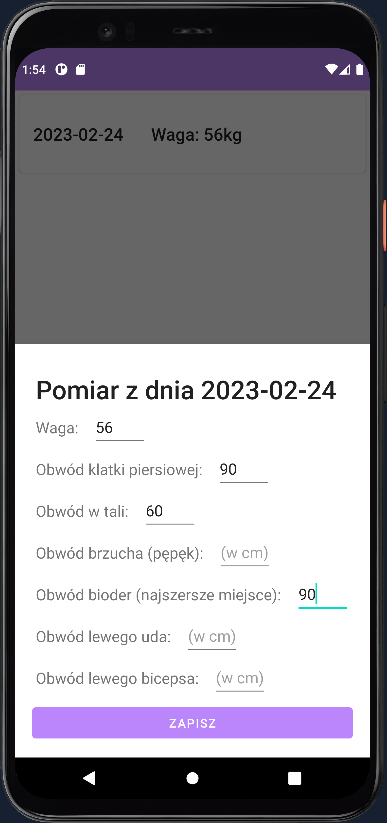
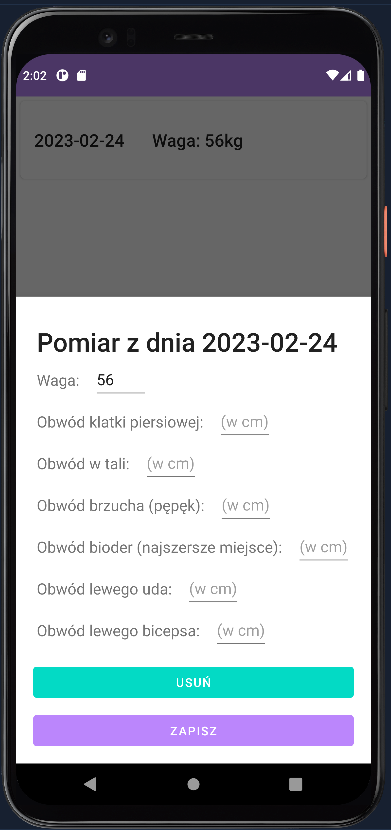
added delete item option

diff --git a/app/src/main/java/com/example/weighttracker/NewMeasurementFragment.kt b/app/src/main/java/com/example/weighttracker/NewMeasurementFragment.kt
@@ -22,6 +22,7 @@ class NewMeasurementFragment(var weightItem: WeightItem?) : BottomSheetDialogFra
 
         if (weightItem != null) {
             binding.title.text = "Pomiar z dnia " + weightItem!!.dateString
+
             val editable = Editable.Factory.getInstance()
             with(binding) {
                 weight.text = editable.newEditable(weightItem!!.weight.toString())
@@ -32,8 +33,16 @@ class NewMeasurementFragment(var weightItem: WeightItem?) : BottomSheetDialogFra
                 thigh.text = editable.newEditable(weightItem!!.thigh.toString())
                 arm.text = editable.newEditable(weightItem!!.arm.toString())
             }
+
+            with (binding.delete) {
+                visibility  = View.VISIBLE
+                setOnClickListener {
+                    deleteAction()
+                }
+            }
         } else {
             binding.title.text = "Nowy pomiar"
+            binding.delete.visibility  = View.GONE
         }
 
         weightViewModel = ViewModelProvider(activity).get(WeightViewModel::class.java)
@@ -71,6 +80,7 @@ class NewMeasurementFragment(var weightItem: WeightItem?) : BottomSheetDialogFra
                 thigh,
                 arm
             )
+
             weightViewModel.addWeightItem(newWeight)
         } else {
             weightItem!!.dateString = date
@@ -81,7 +91,21 @@ class NewMeasurementFragment(var weightItem: WeightItem?) : BottomSheetDialogFra
             weightItem!!.hips = hips
             weightItem!!.thigh = thigh
             weightItem!!.arm = arm
+
+            weightViewModel.updateWeightItem(weightItem!!)
         }
+
+        clear()
+        dismiss()
+    }
+
+    private fun deleteAction() {
+        weightViewModel.deleteWeightItem(weightItem!!)
+        clear()
+        dismiss()
+    }
+
+    private fun clear() {
         binding.weight.setText("")
         binding.weist.setText("")
         binding.chest.setText("")
@@ -89,7 +113,5 @@ class NewMeasurementFragment(var weightItem: WeightItem?) : BottomSheetDialogFra
         binding.hips.setText("")
         binding.thigh.setText("")
         binding.arm.setText("")
-
-        dismiss()
     }
 }

diff --git a/app/src/main/java/com/example/weighttracker/WeightViewModel.kt b/app/src/main/java/com/example/weighttracker/WeightViewModel.kt
@@ -21,6 +21,10 @@ class WeightViewModel(
         repository.updateWeightItem(weightItem)
     }
 
+    fun deleteWeightItem(weightItem: WeightItem) = viewModelScope.launch {
+        repository.deleteWeightItem(weightItem)
+    }
+
     companion object {
         val Factory: ViewModelProvider.Factory = viewModelFactory {
             initializer {

diff --git a/app/src/main/java/com/example/weighttracker/WeightItemRepository.kt b/app/src/main/java/com/example/weighttracker/WeightItemRepository.kt
@@ -17,4 +17,9 @@ class WeightItemRepository(
     suspend fun updateWeightItem(weightItem: WeightItem) {
         weightItemDao.updateWeightItem(weightItem)
     }
+
+    @WorkerThread
+    suspend fun deleteWeightItem(weightItem: WeightItem) {
+        weightItemDao.deleteWeightItem(weightItem)
+    }
 }
